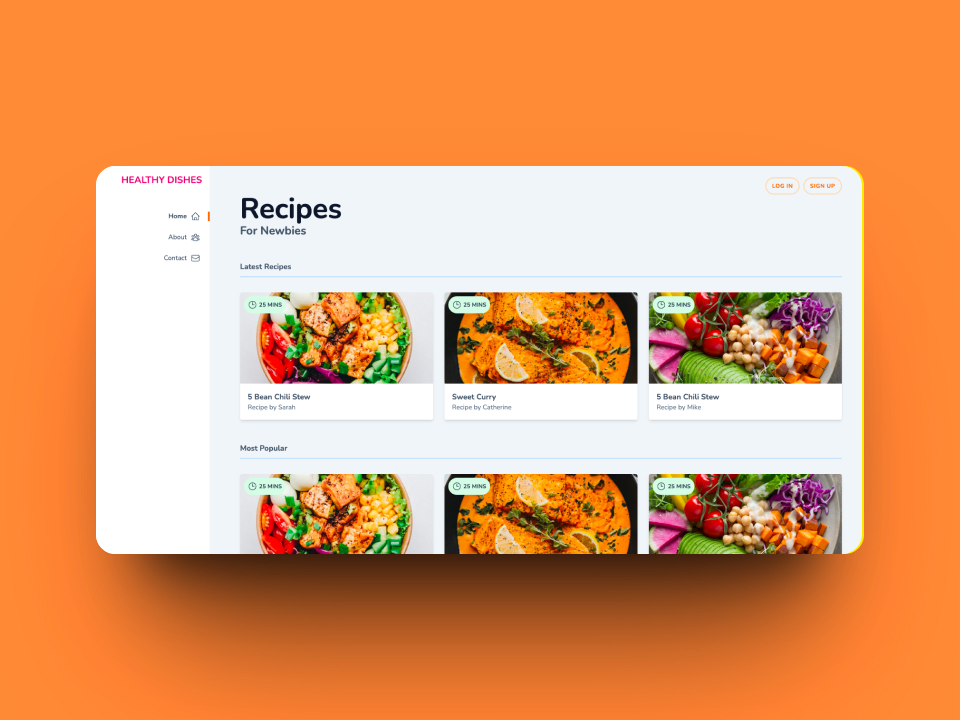
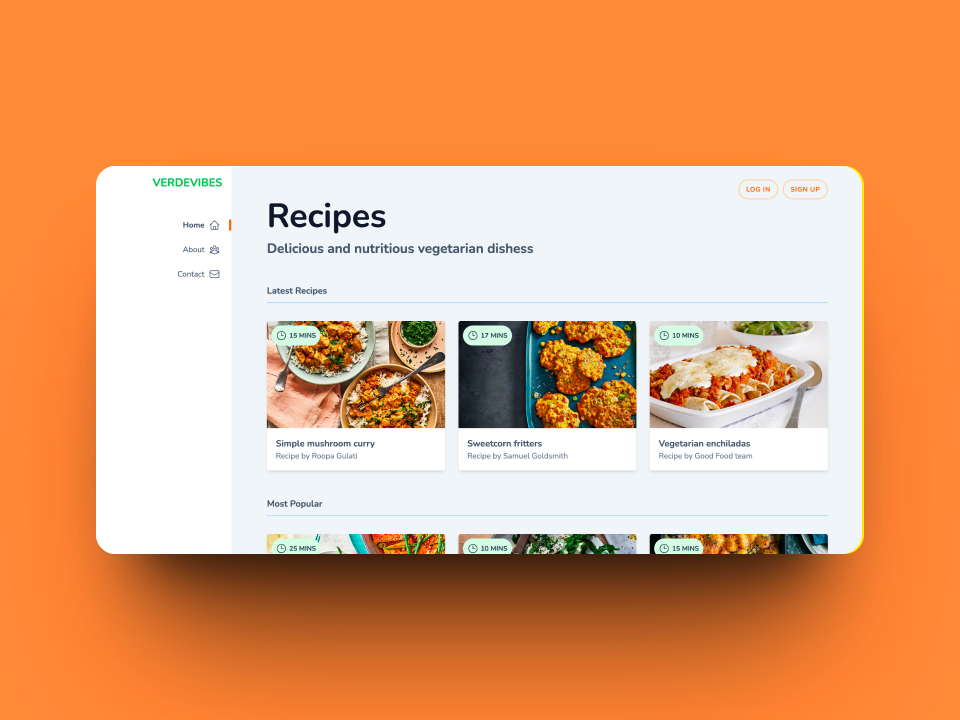
update portfolio

Changed region(s): [[0.125, 0.2444, 0.875, 0.7944], [0.7812, 0.2444, 0.875, 0.275]]

diff --git a/index.html b/index.html
@@ -184,44 +184,41 @@
           </div>
 
           <div class="portfolio-items">
-            <!-- Item 3 Cleaning service -->
+            <!-- Portfolio 6 -->
             <div class="portfolio-item">
               <a
-                href="https://sanicodeplayground.github.io/cleaning-services/"
+                href="https://tailwindcss-shop.vercel.app/"
                 target="_blank"
               >
-                <img
-                  src="img/portfolio-sarah-cleans.png"
-                  alt="landing page of cleaning services"
-                />
+                <img src="./img/portfolio/recipes.jpg" alt="Portfolio preview" />
               </a>
               <ul class="item-tech">
                 <li>
-                  <img
-                    src="./img/techLogos/logoHTML5.svg"
-                    alt="HTML5 logo"
-                  />HTML 5
+                  <img src="./img/techLogos/logoVercel.svg" alt="HTML 5" />Vercel
                 </li>
                 <li>
-                  <img src="./img/techLogos/logoCSS.svg" alt="CSS3" />CSS 3
+                  <img src="./img/techLogos/logoTailWindCSS.svg" alt="CSS 3 logo" />Tailwind v3.4
                 </li>
-                <li>Form</li>
-                <li>Accessibility</li>
+                <li>
+                  <img
+                    src="./img/techLogos/logoJS.svg"
+                    alt="Javascript logo"
+                  />JavaScript
+                </li>
               </ul>
               <div class="item-title-container">
-                <h3 class="item-title">Cleaning services landing page</h3>
+                <h3 class="item-title">Recipe Platform</h3>
                 <a
-                  href="https://codesandbox.io/s/cleaning-services-ie9suy"
+                  href="https://github.com/sanicodeplayground/tailwindcssShop"
                   target="_blank"
                   >View code</a
                 >
               </div>
-
               <p class="item-description">
-                Responsive one page layout built with using using media queries
-                and forms.
+                Platform dedicated to plant-based recipes, where users can explore a range of delicious vegetarian dishes. Build using Tailwind CSS and deployed using Vercel. 
               </p>
             </div>
+            
 
             <!--Item 4 Solicitors -->
             <div class="portfolio-item">
@@ -297,41 +294,45 @@
                 their BMI.
               </p>
             </div>
-
-            <!-- Portfolio 6 -->
+            <!-- Item 3 Cleaning service -->
             <div class="portfolio-item">
               <a
-                href="https://tailwindcss-shop.vercel.app/"
+                href="https://sanicodeplayground.github.io/cleaning-services/"
                 target="_blank"
               >
-                <img src="./img/portfolio/recipes.jpg" alt="Portfolio preview" />
+                <img
+                  src="img/portfolio-sarah-cleans.png"
+                  alt="landing page of cleaning services"
+                />
               </a>
               <ul class="item-tech">
                 <li>
-                  <img src="./img/techLogos/logoVercel.svg" alt="HTML 5" />Vercel
-                </li>
-                <li>
-                  <img src="./img/techLogos/logoTailWindCSS.svg" alt="CSS 3 logo" />Tailwind v3.4
-                </li>
-                <li>
                   <img
-                    src="./img/techLogos/logoJS.svg"
-                    alt="Javascript logo"
-                  />JavaScript
+                    src="./img/techLogos/logoHTML5.svg"
+                    alt="HTML5 logo"
+                  />HTML 5
                 </li>
+                <li>
+                  <img src="./img/techLogos/logoCSS.svg" alt="CSS3" />CSS 3
+                </li>
+                <li>Form</li>
+                <li>Accessibility</li>
               </ul>
               <div class="item-title-container">
-                <h3 class="item-title">Recipe</h3>
+                <h3 class="item-title">Cleaning services landing page</h3>
                 <a
-                  href="https://github.com/sanicodeplayground/tailwindcssShop"
+                  href="https://codesandbox.io/s/cleaning-services-ie9suy"
                   target="_blank"
                   >View code</a
                 >
               </div>
+
               <p class="item-description">
-                Platform dedicated to plant-based recipes, where users can explore a range of delicious vegetarian dishes. Build using Tailwind CSS and deployed using Vercel. 
+                Responsive one page layout built with using using media queries
+                and forms.
               </p>
             </div>
+            
           </div>
 
           <div class="portfolio-items">
